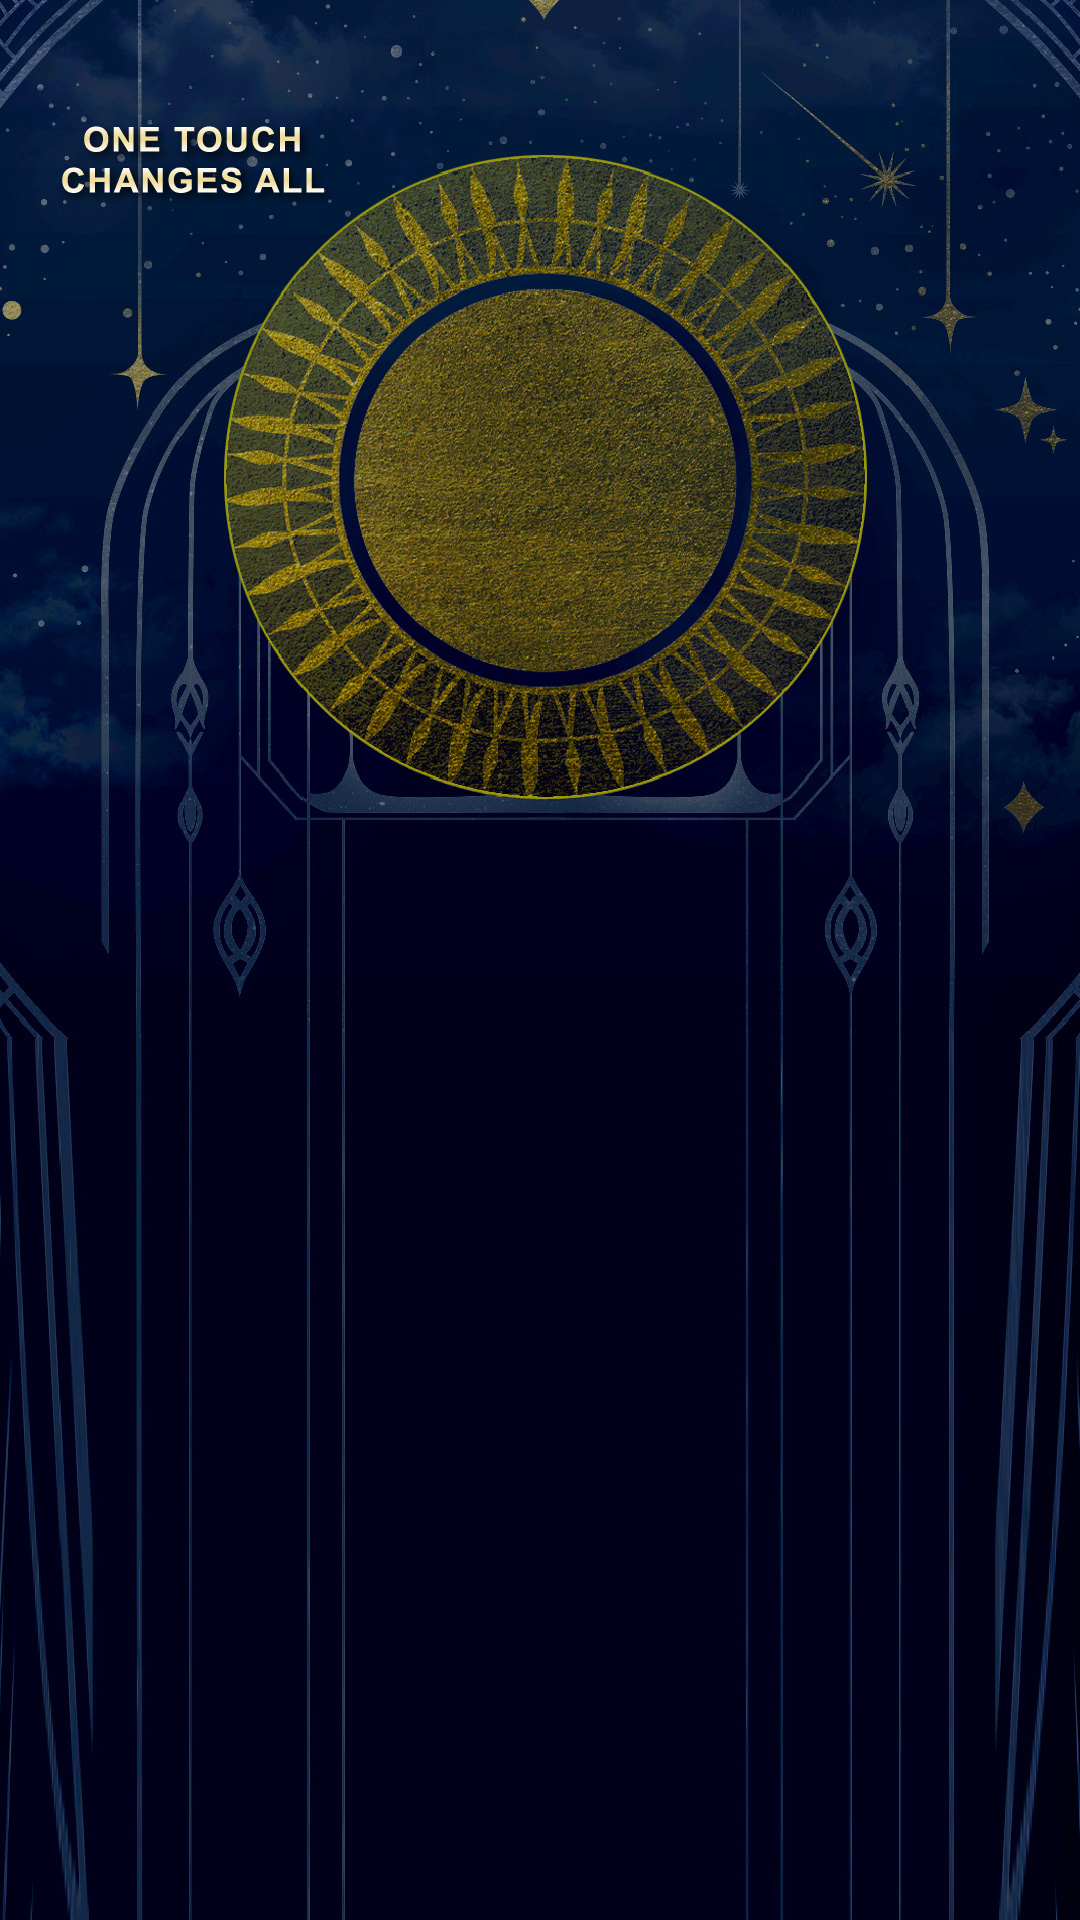
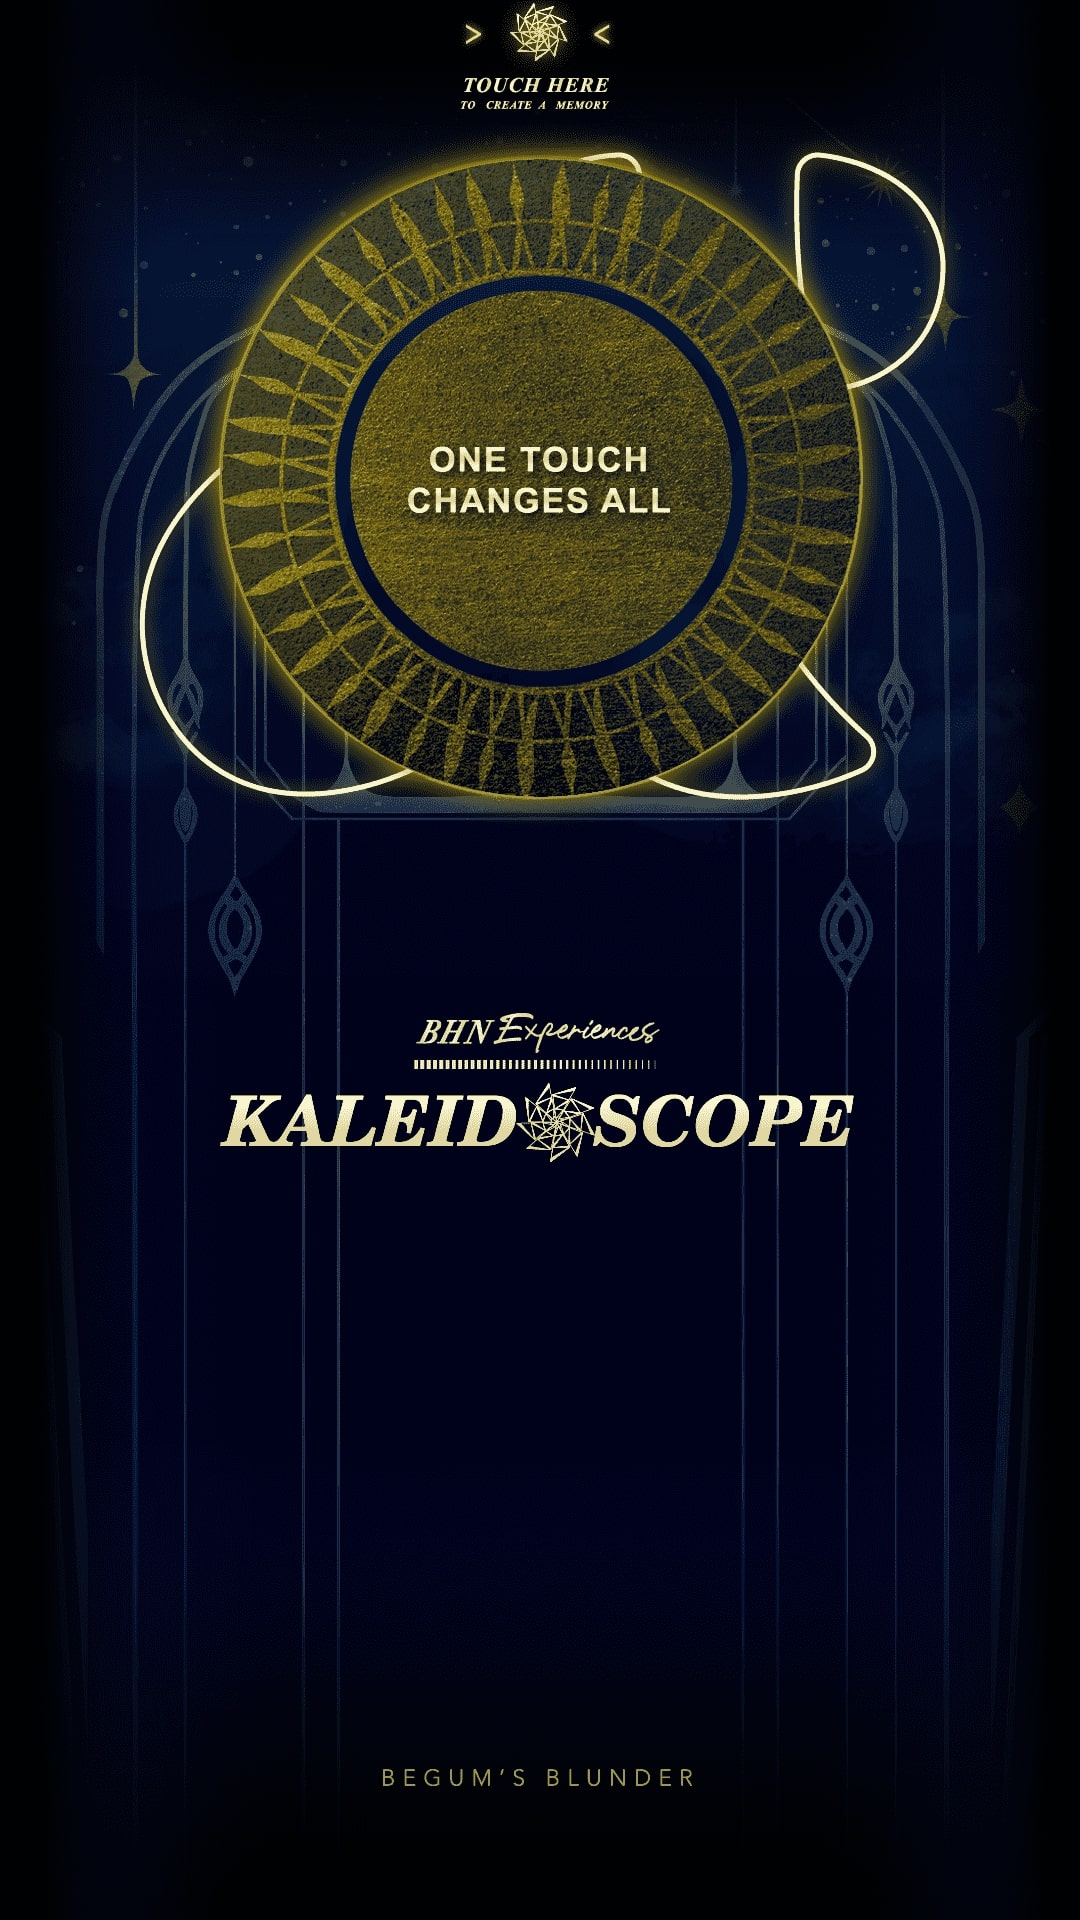
new background image

diff --git a/removeBg_api_python/app.py b/removeBg_api_python/app.py
@@ -66,7 +66,7 @@ def process_image():
         img_without_bg = remove_bg(filename)
 
         # Overlay the processed image on a background
-        result_image = overlay_img(img_without_bg, 'bg.jpg', position, size)
+        result_image = overlay_img(img_without_bg, 'bg2.png', position, size)
 
         # Save the result
         result_filename = os.path.join(app.config['UPLOAD_FOLDER'], 'result.png')

diff --git a/removeBg_api_python/app2.py b/removeBg_api_python/app2.py
@@ -49,7 +49,7 @@ def process_image():
 
         img_without_bg = remove_bg(filename)
 
-        result_image = overlay_img(img_without_bg, 'bg.jpg', position, size)
+        result_image = overlay_img(img_without_bg, 'bg2.png', position, size)
 
         result_filename = os.path.join(app.config['UPLOAD_FOLDER'], 'result.jpg')
         
